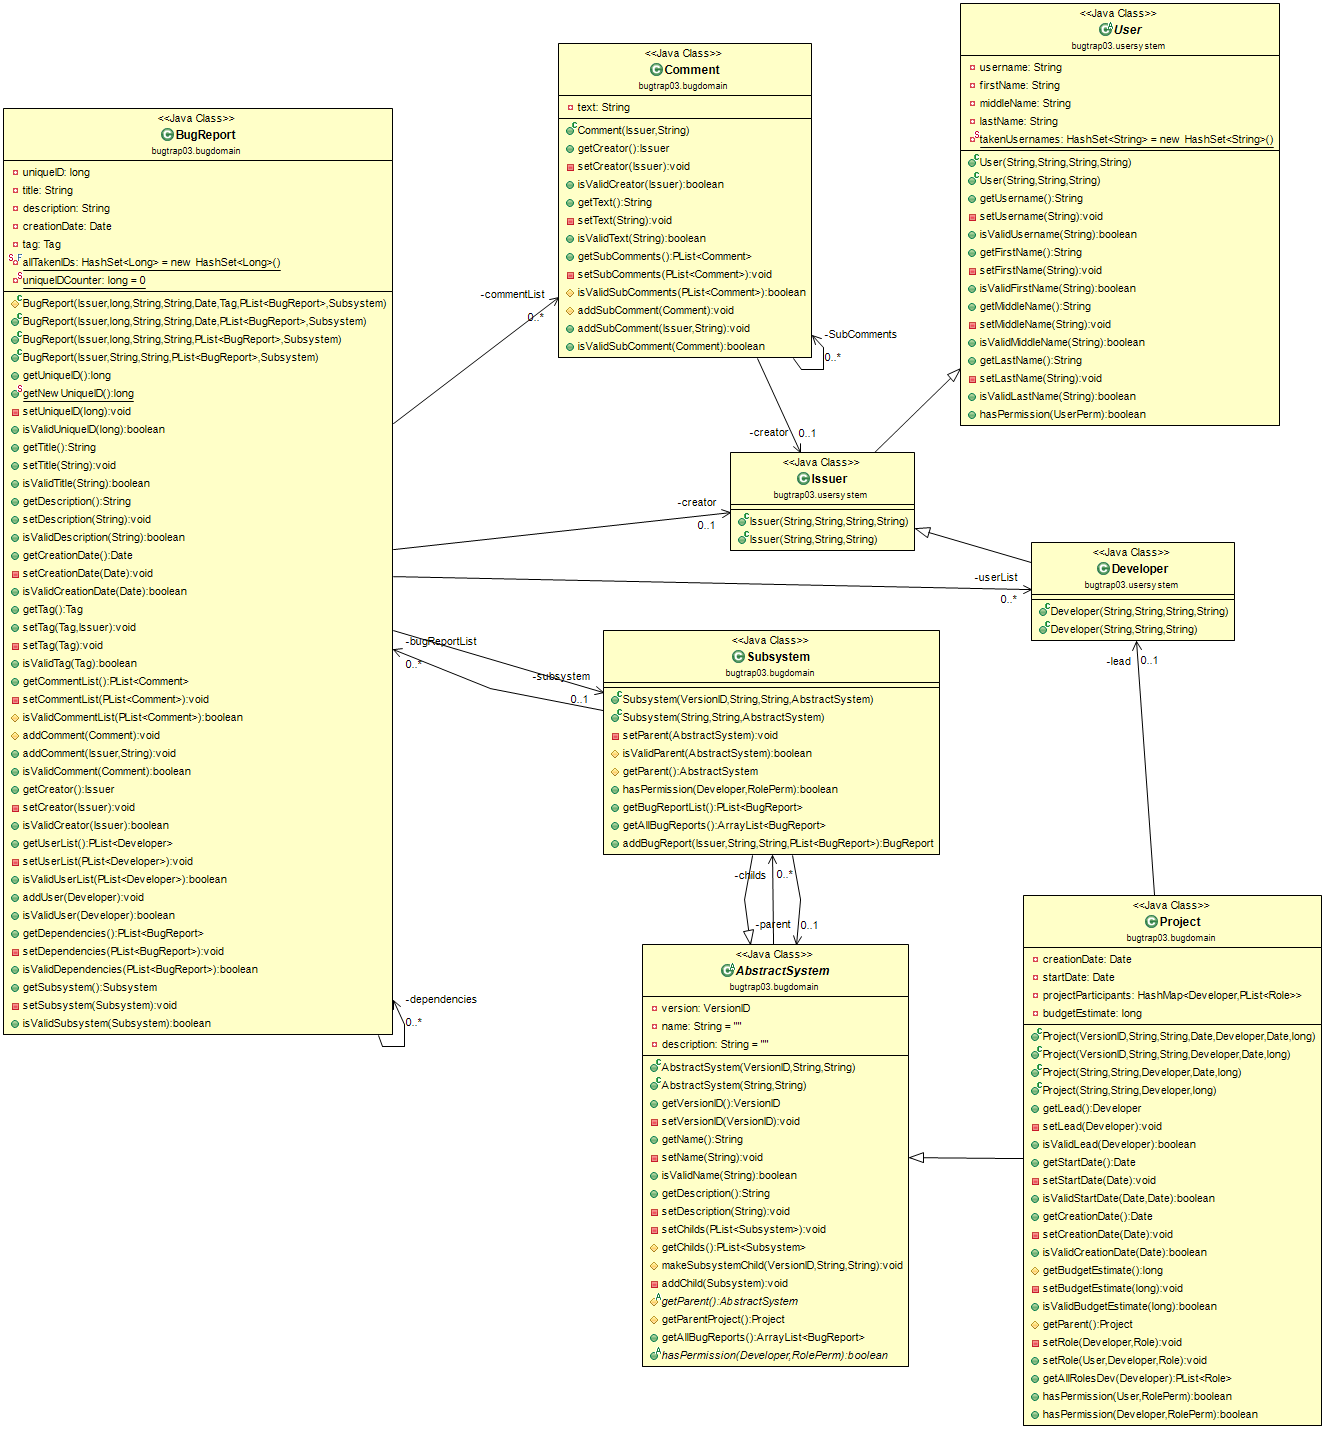
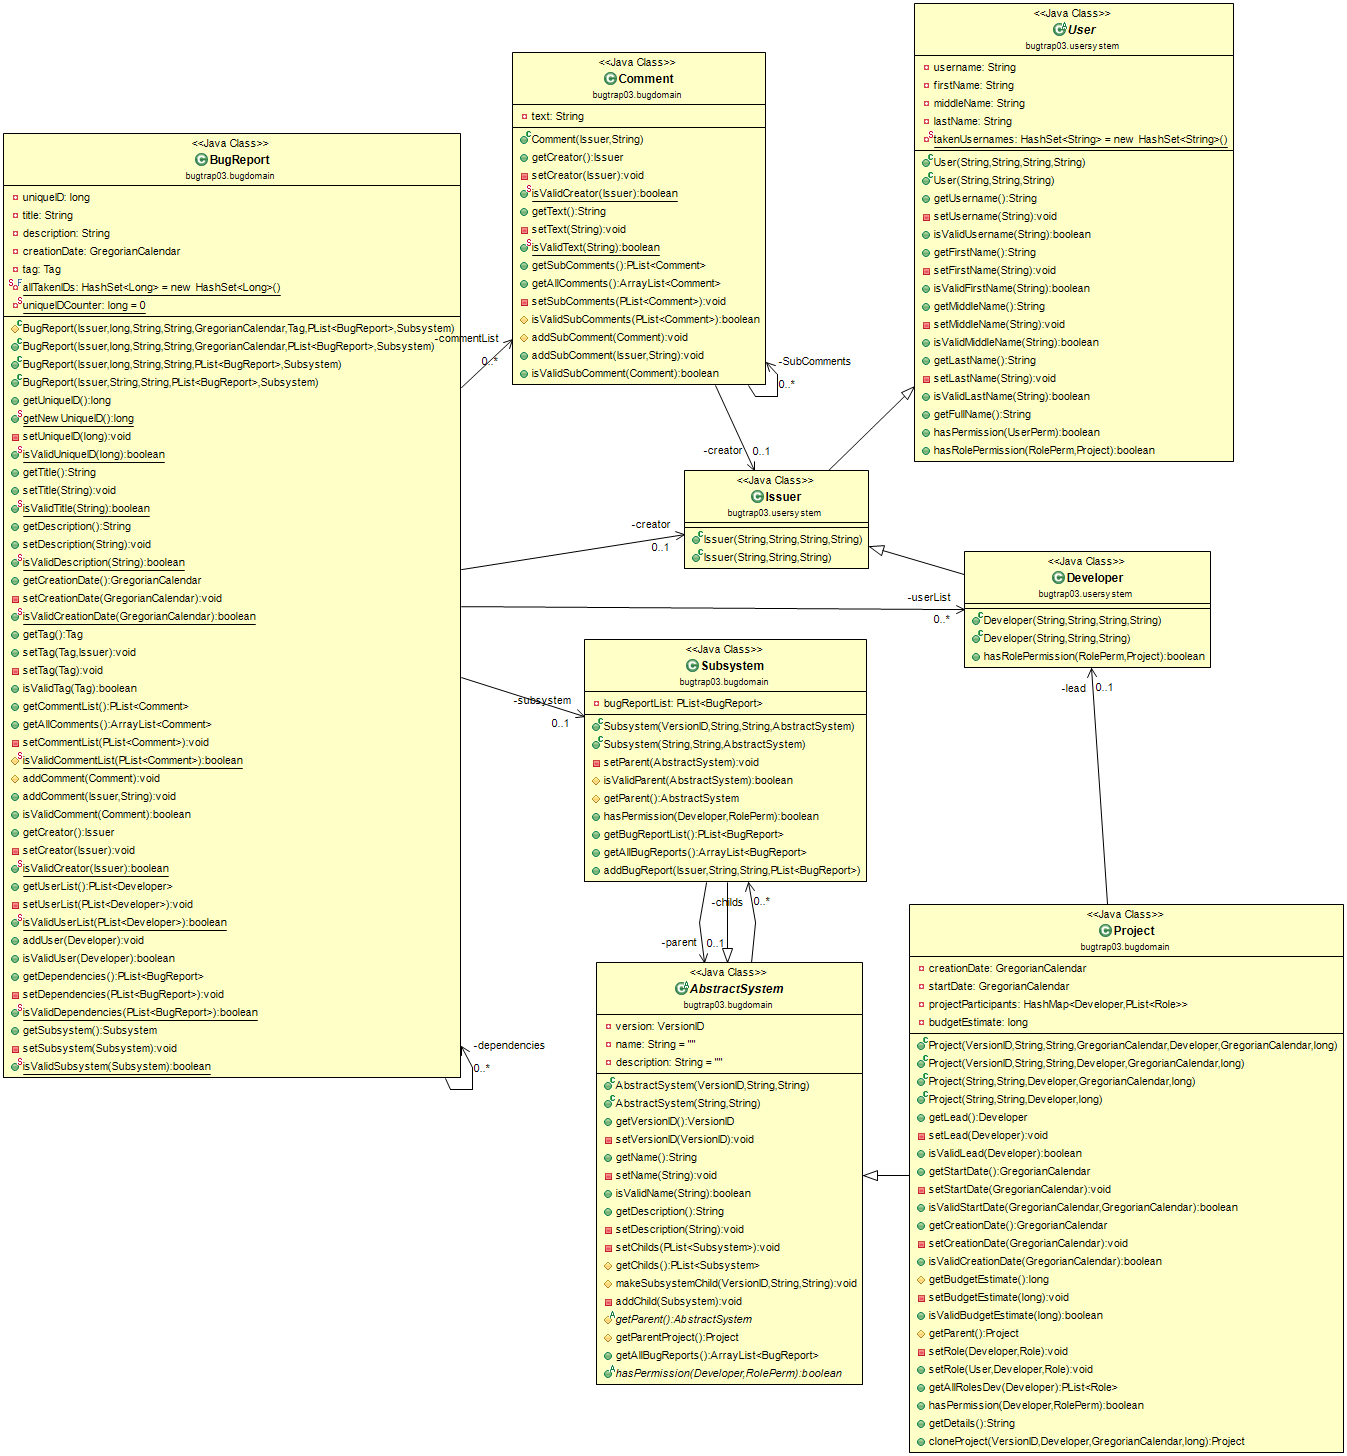
Updated class diagrams and removed redundant import in BugReport

diff --git a/BugTrap/BugTrap/src/bugtrap03/bugdomain/BugReport.java b/BugTrap/BugTrap/src/bugtrap03/bugdomain/BugReport.java
@@ -1,7 +1,6 @@
 package bugtrap03.bugdomain;
 
 import java.util.ArrayList;
-import java.util.Date;
 import java.util.GregorianCalendar;
 import java.util.HashSet;
 
